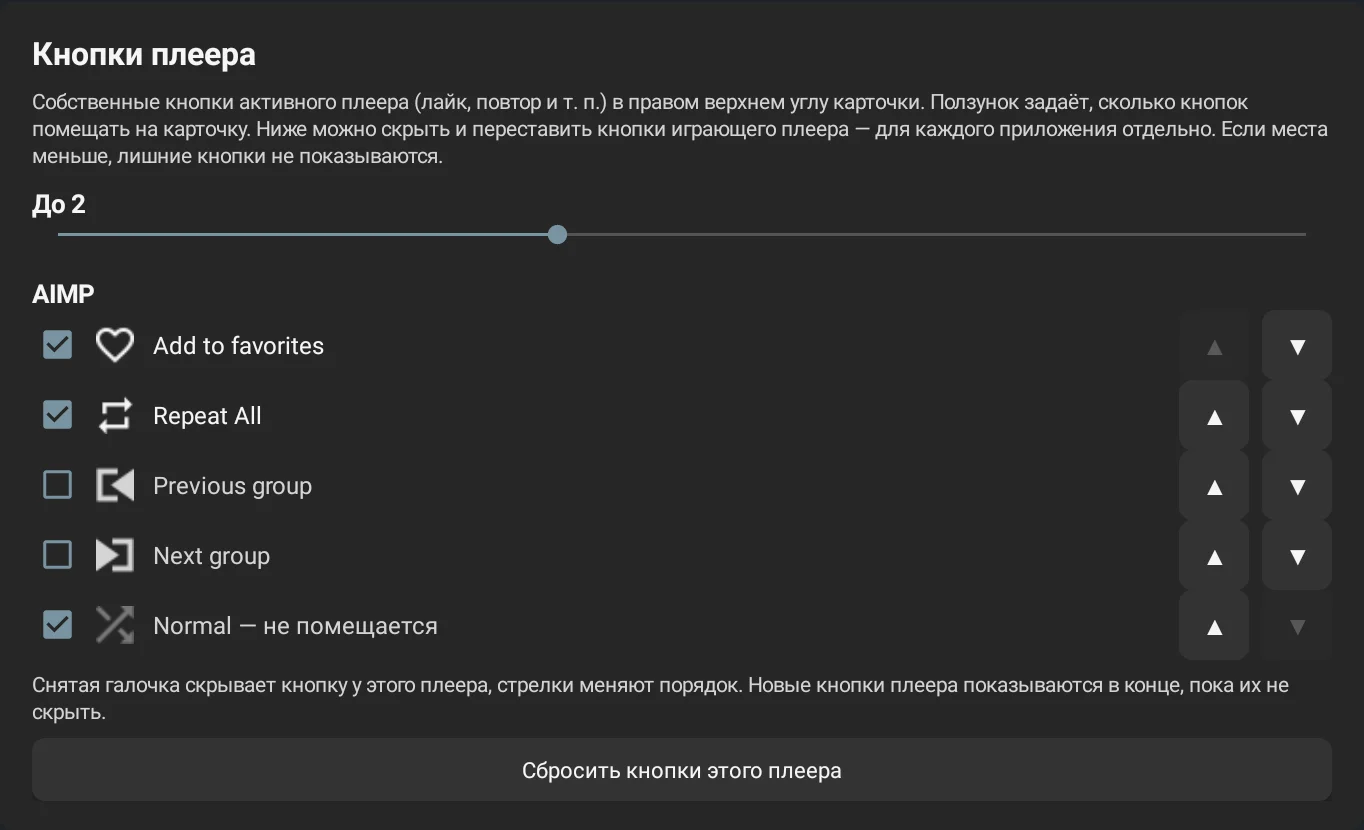
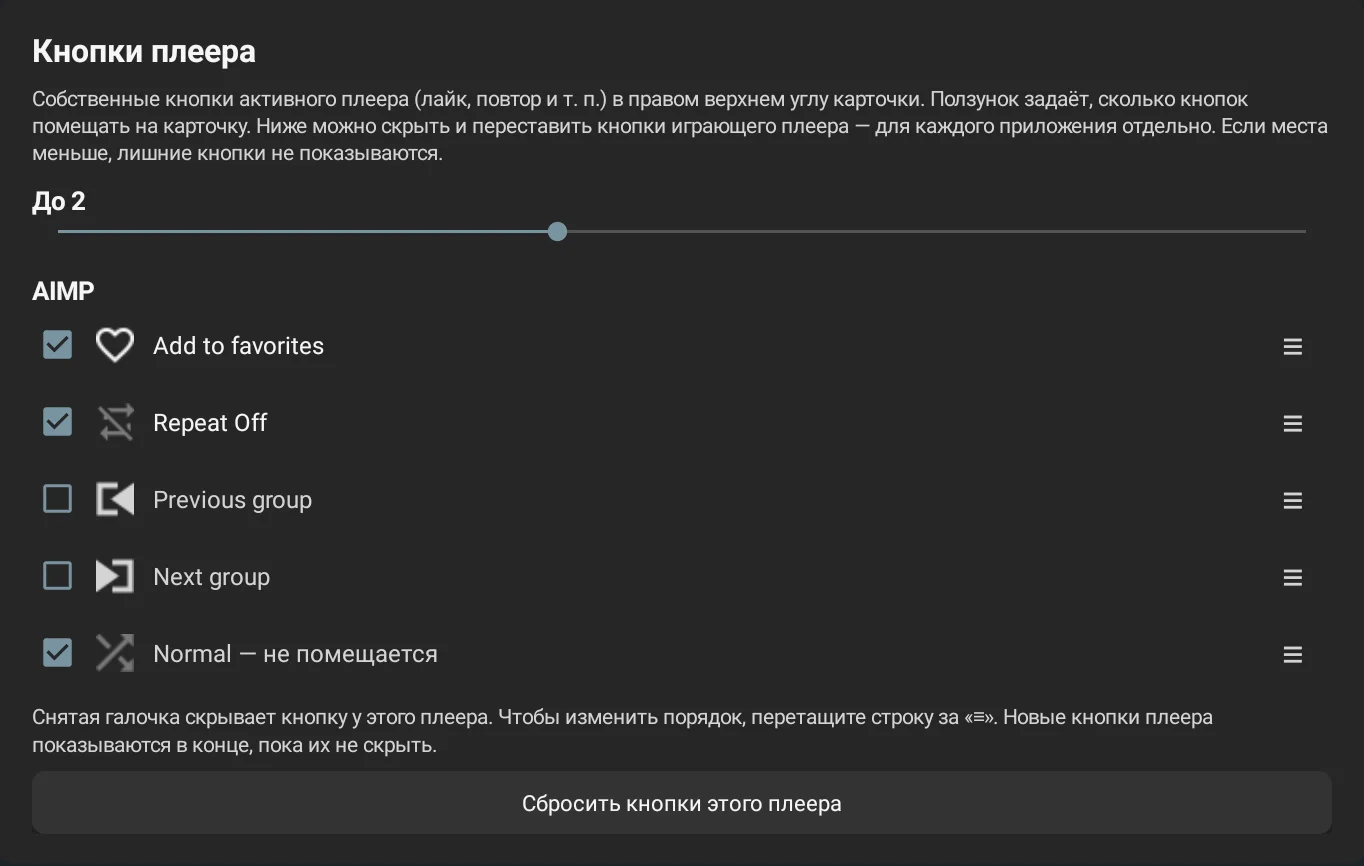
Reorder player buttons by dragging instead of arrows
Each row in the player buttons list gets a drag handle: the lifted row follows the finger, the rows it passes slide aside and the order is saved on release. TalkBack keeps Up and Down actions on the handle. The guide text and settings screenshot are updated.

diff --git a/app/src/main/java/com/mmwtl/atlasmediawidget/MainActivity.java b/app/src/main/java/com/mmwtl/atlasmediawidget/MainActivity.java
@@ -2958,31 +2958,134 @@ public final class MainActivity extends ScaledActivity {
             row.addView(box, new LinearLayout.LayoutParams(0,
                     ViewGroup.LayoutParams.WRAP_CONTENT, 1f));
             final int index = position;
-            row.addView(playerActionMoveButton("▲", "Выше", index > 0,
-                    () -> movePlayerAction(owner, actions, hidden, arranged, index, index - 1)));
-            row.addView(playerActionMoveButton("▼", "Ниже", index < arranged.size() - 1,
-                    () -> movePlayerAction(owner, actions, hidden, arranged, index, index + 1)));
+            row.addView(playerActionDragHandle(row, action.label(), index, arranged.size(),
+                    to -> movePlayerAction(owner, actions, hidden, arranged, index, to)));
+            row.setTag(index);
             playerActionsList.addView(row, fullWrap());
         }
         playerActionsList.addView(playerActionsNote(
-                "Снятая галочка скрывает кнопку у этого плеера, стрелки меняют порядок. "
-                        + "Новые кнопки плеера показываются в конце, пока их не скрыть."));
+                "Снятая галочка скрывает кнопку у этого плеера. Чтобы изменить порядок, "
+                        + "перетащите строку за «≡». Новые кнопки плеера показываются в конце, "
+                        + "пока их не скрыть."));
     }
 
-    private TextView playerActionMoveButton(String glyph, String description, boolean enabled,
-            Runnable action) {
-        TextView button = text(glyph, 16, Ui.PRIMARY, Typeface.NORMAL);
-        button.setGravity(Gravity.CENTER);
-        button.setContentDescription(description);
-        button.setEnabled(enabled);
-        button.setAlpha(enabled ? 1f : 0.25f);
-        button.setBackground(Ui.background(Ui.NESTED, 8, this));
-        if (enabled) button.setOnClickListener(v -> action.run());
-        int size = Ui.dp(this, 44);
+    /**
+     * A handle that drags its row within the player button list. The lifted row follows the
+     * finger, the rows it passes slide aside, and the order is saved on release. TalkBack gets
+     * «Выше» and «Ниже» actions instead of the gesture.
+     */
+    private TextView playerActionDragHandle(LinearLayout row, String label, int index, int count,
+            java.util.function.IntConsumer moveTo) {
+        TextView handle = text("≡", 24, Ui.SECONDARY, Typeface.NORMAL);
+        handle.setGravity(Gravity.CENTER);
+        handle.setContentDescription("Переместить «" + label + "»");
+        int size = Ui.dp(this, 48);
         LinearLayout.LayoutParams params = new LinearLayout.LayoutParams(size, size);
         params.leftMargin = Ui.dp(this, 8);
-        button.setLayoutParams(params);
-        return button;
+        handle.setLayoutParams(params);
+        if (count < 2) {
+            handle.setAlpha(0.25f);
+            return handle;
+        }
+        int up = View.generateViewId();
+        int down = View.generateViewId();
+        handle.setAccessibilityDelegate(new View.AccessibilityDelegate() {
+            @Override public void onInitializeAccessibilityNodeInfo(View host,
+                    android.view.accessibility.AccessibilityNodeInfo info) {
+                super.onInitializeAccessibilityNodeInfo(host, info);
+                if (index > 0) info.addAction(new android.view.accessibility
+                        .AccessibilityNodeInfo.AccessibilityAction(up, "Выше"));
+                if (index < count - 1) info.addAction(new android.view.accessibility
+                        .AccessibilityNodeInfo.AccessibilityAction(down, "Ниже"));
+            }
+
+            @Override public boolean performAccessibilityAction(View host, int action,
+                    Bundle arguments) {
+                if (action == up && index > 0) {
+                    moveTo.accept(index - 1);
+                    return true;
+                }
+                if (action == down && index < count - 1) {
+                    moveTo.accept(index + 1);
+                    return true;
+                }
+                return super.performAccessibilityAction(host, action, arguments);
+            }
+        });
+        float[] startY = new float[1];
+        int[] target = {index};
+        handle.setOnTouchListener((view, event) -> {
+            int step = row.getHeight();
+            switch (event.getActionMasked()) {
+                case MotionEvent.ACTION_DOWN -> {
+                    view.getParent().requestDisallowInterceptTouchEvent(true);
+                    startY[0] = event.getRawY();
+                    target[0] = index;
+                    row.setBackground(Ui.background(Ui.NESTED, 8, this));
+                    // Elevation draws the lifted row above its neighbours without reordering them.
+                    row.setElevation(Ui.dp(this, 8));
+                    return true;
+                }
+                case MotionEvent.ACTION_MOVE -> {
+                    float offset = Math.max(-index * step,
+                            Math.min((count - 1 - index) * step, event.getRawY() - startY[0]));
+                    row.setTranslationY(offset);
+                    int next = playerActionDragTarget(index, offset, step, count);
+                    if (next != target[0]) {
+                        target[0] = next;
+                        for (int other = 0; other < count; other++) {
+                            View sibling = playerActionRow(other);
+                            if (sibling == null || sibling == row) continue;
+                            sibling.animate().translationY(playerActionShift(other, index, next)
+                                    * step).setDuration(120L).start();
+                        }
+                    }
+                    return true;
+                }
+                case MotionEvent.ACTION_UP, MotionEvent.ACTION_CANCEL -> {
+                    view.getParent().requestDisallowInterceptTouchEvent(false);
+                    for (int other = 0; other < count; other++) {
+                        View sibling = playerActionRow(other);
+                        if (sibling == null) continue;
+                        sibling.animate().cancel();
+                        sibling.setTranslationY(0f);
+                    }
+                    row.setElevation(0f);
+                    row.setBackground(null);
+                    row.setTranslationY(0f);
+                    if (event.getActionMasked() == MotionEvent.ACTION_UP && target[0] != index) {
+                        moveTo.accept(target[0]);
+                    }
+                    return true;
+                }
+                default -> {
+                    return false;
+                }
+            }
+        });
+        return handle;
+    }
+
+    /** The row for list position {@code index}; rows carry their position as a tag. */
+    private View playerActionRow(int index) {
+        for (int child = 0; child < playerActionsList.getChildCount(); child++) {
+            View view = playerActionsList.getChildAt(child);
+            if (Integer.valueOf(index).equals(view.getTag())) return view;
+        }
+        return null;
+    }
+
+    /** The position a dragged row lands on after moving {@code offset} pixels. */
+    static int playerActionDragTarget(int from, float offset, int step, int count) {
+        if (step <= 0) return from;
+        return Math.max(0, Math.min(count - 1, from + Math.round(offset / step)));
+    }
+
+    /** How many rows the row at {@code position} shifts while {@code from} hovers at {@code to}. */
+    static int playerActionShift(int position, int from, int to) {
+        if (from < to && position > from && position <= to) return -1;
+        if (to < from && position >= to && position < from) return 1;
+        return 0;
     }
 
     private void movePlayerAction(String owner, List<MediaCustomAction> actions,

diff --git a/app/src/test/java/com/mmwtl/atlasmediawidget/PlayerActionFilterTest.java b/app/src/test/java/com/mmwtl/atlasmediawidget/PlayerActionFilterTest.java
@@ -109,4 +109,23 @@ public final class PlayerActionFilterTest {
                 !prefs.playerActionRules().configured("com.aimp.player"));
         assertTrue(prefs.playerActionRules().configured("ru.yandex.music"));
     }
+
+    @Test public void draggedRowLandsOnTheNearestPositionWithinTheList() {
+        assertEquals(0, MainActivity.playerActionDragTarget(2, -130f, 60, 5));
+        assertEquals(3, MainActivity.playerActionDragTarget(2, 70f, 60, 5));
+        assertEquals(2, MainActivity.playerActionDragTarget(2, 29f, 60, 5));
+        assertEquals(4, MainActivity.playerActionDragTarget(2, 900f, 60, 5));
+        assertEquals(2, MainActivity.playerActionDragTarget(2, 50f, 0, 5));
+    }
+
+    @Test public void rowsBetweenTheDragOriginAndTargetSlideAside() {
+        assertEquals(List.of(0, -1, -1, 0, 0), List.of(
+                MainActivity.playerActionShift(0, 0, 2), MainActivity.playerActionShift(1, 0, 2),
+                MainActivity.playerActionShift(2, 0, 2), MainActivity.playerActionShift(3, 0, 2),
+                MainActivity.playerActionShift(4, 0, 2)));
+        assertEquals(List.of(0, 1, 1, 0, 0), List.of(
+                MainActivity.playerActionShift(0, 3, 1), MainActivity.playerActionShift(1, 3, 1),
+                MainActivity.playerActionShift(2, 3, 1), MainActivity.playerActionShift(3, 3, 1),
+                MainActivity.playerActionShift(4, 3, 1)));
+    }
 }

diff --git a/docs/player-buttons.en.md b/docs/player-buttons.en.md
@@ -37,7 +37,7 @@ playback in the player you want to configure: the list always shows the player t
 
 <p align="center">
   <img src="images/player-buttons-settings.webp" width="660"
-       alt="Player buttons block: «До 2» slider and the AIMP button list with arrows, favorites moved to the top, group buttons hidden">
+       alt="Player buttons block: «До 2» slider and the AIMP button list with «≡» handles, favorites moved to the top, group buttons hidden">
 </p>
 
 ### How many buttons
@@ -56,8 +56,9 @@ they will appear on the card:
 
 - **checked**: the button is shown;
 - **unchecked**: the button is hidden for this player;
-- **▲ ▼ arrows** on the right move the button up or down. The top button of the list comes first
-  on the card, that is, leftmost.
+- **the «≡» handle** on the right: drag the row up or down by it and release it in the new place.
+  The top button of the list comes first on the card, that is, leftmost. With TalkBack the handle
+  offers «Выше» (Up) and «Ниже» (Down) actions.
 
 Hiding and order are remembered per app: hiding repeat for AIMP does not affect Yandex Music. New
 buttons a player adds after an update appear right away at the end of the list and can be moved or
@@ -102,7 +103,7 @@ The full list of any player's buttons with their ids is in the diagnostics:
 - **No buttons at all.** Check that the slider is not at 0 and the source is Online, then check in
   the diagnostics whether the player publishes buttons. If the list is empty, the player does not.
 - **A button is missing from the card.** It is either hidden (unchecked) or beyond the limit; the
-  settings list shows which. Move it up, raise the limit or hide the unwanted buttons before it.
+  settings list shows which. Drag it higher, raise the limit or hide the unwanted buttons before it.
 - **A button moved or reappeared after a tap.** The player replaced it with a button that has a
   different id in a different position. Move or hide it again; the setting then applies to the new
   button.
